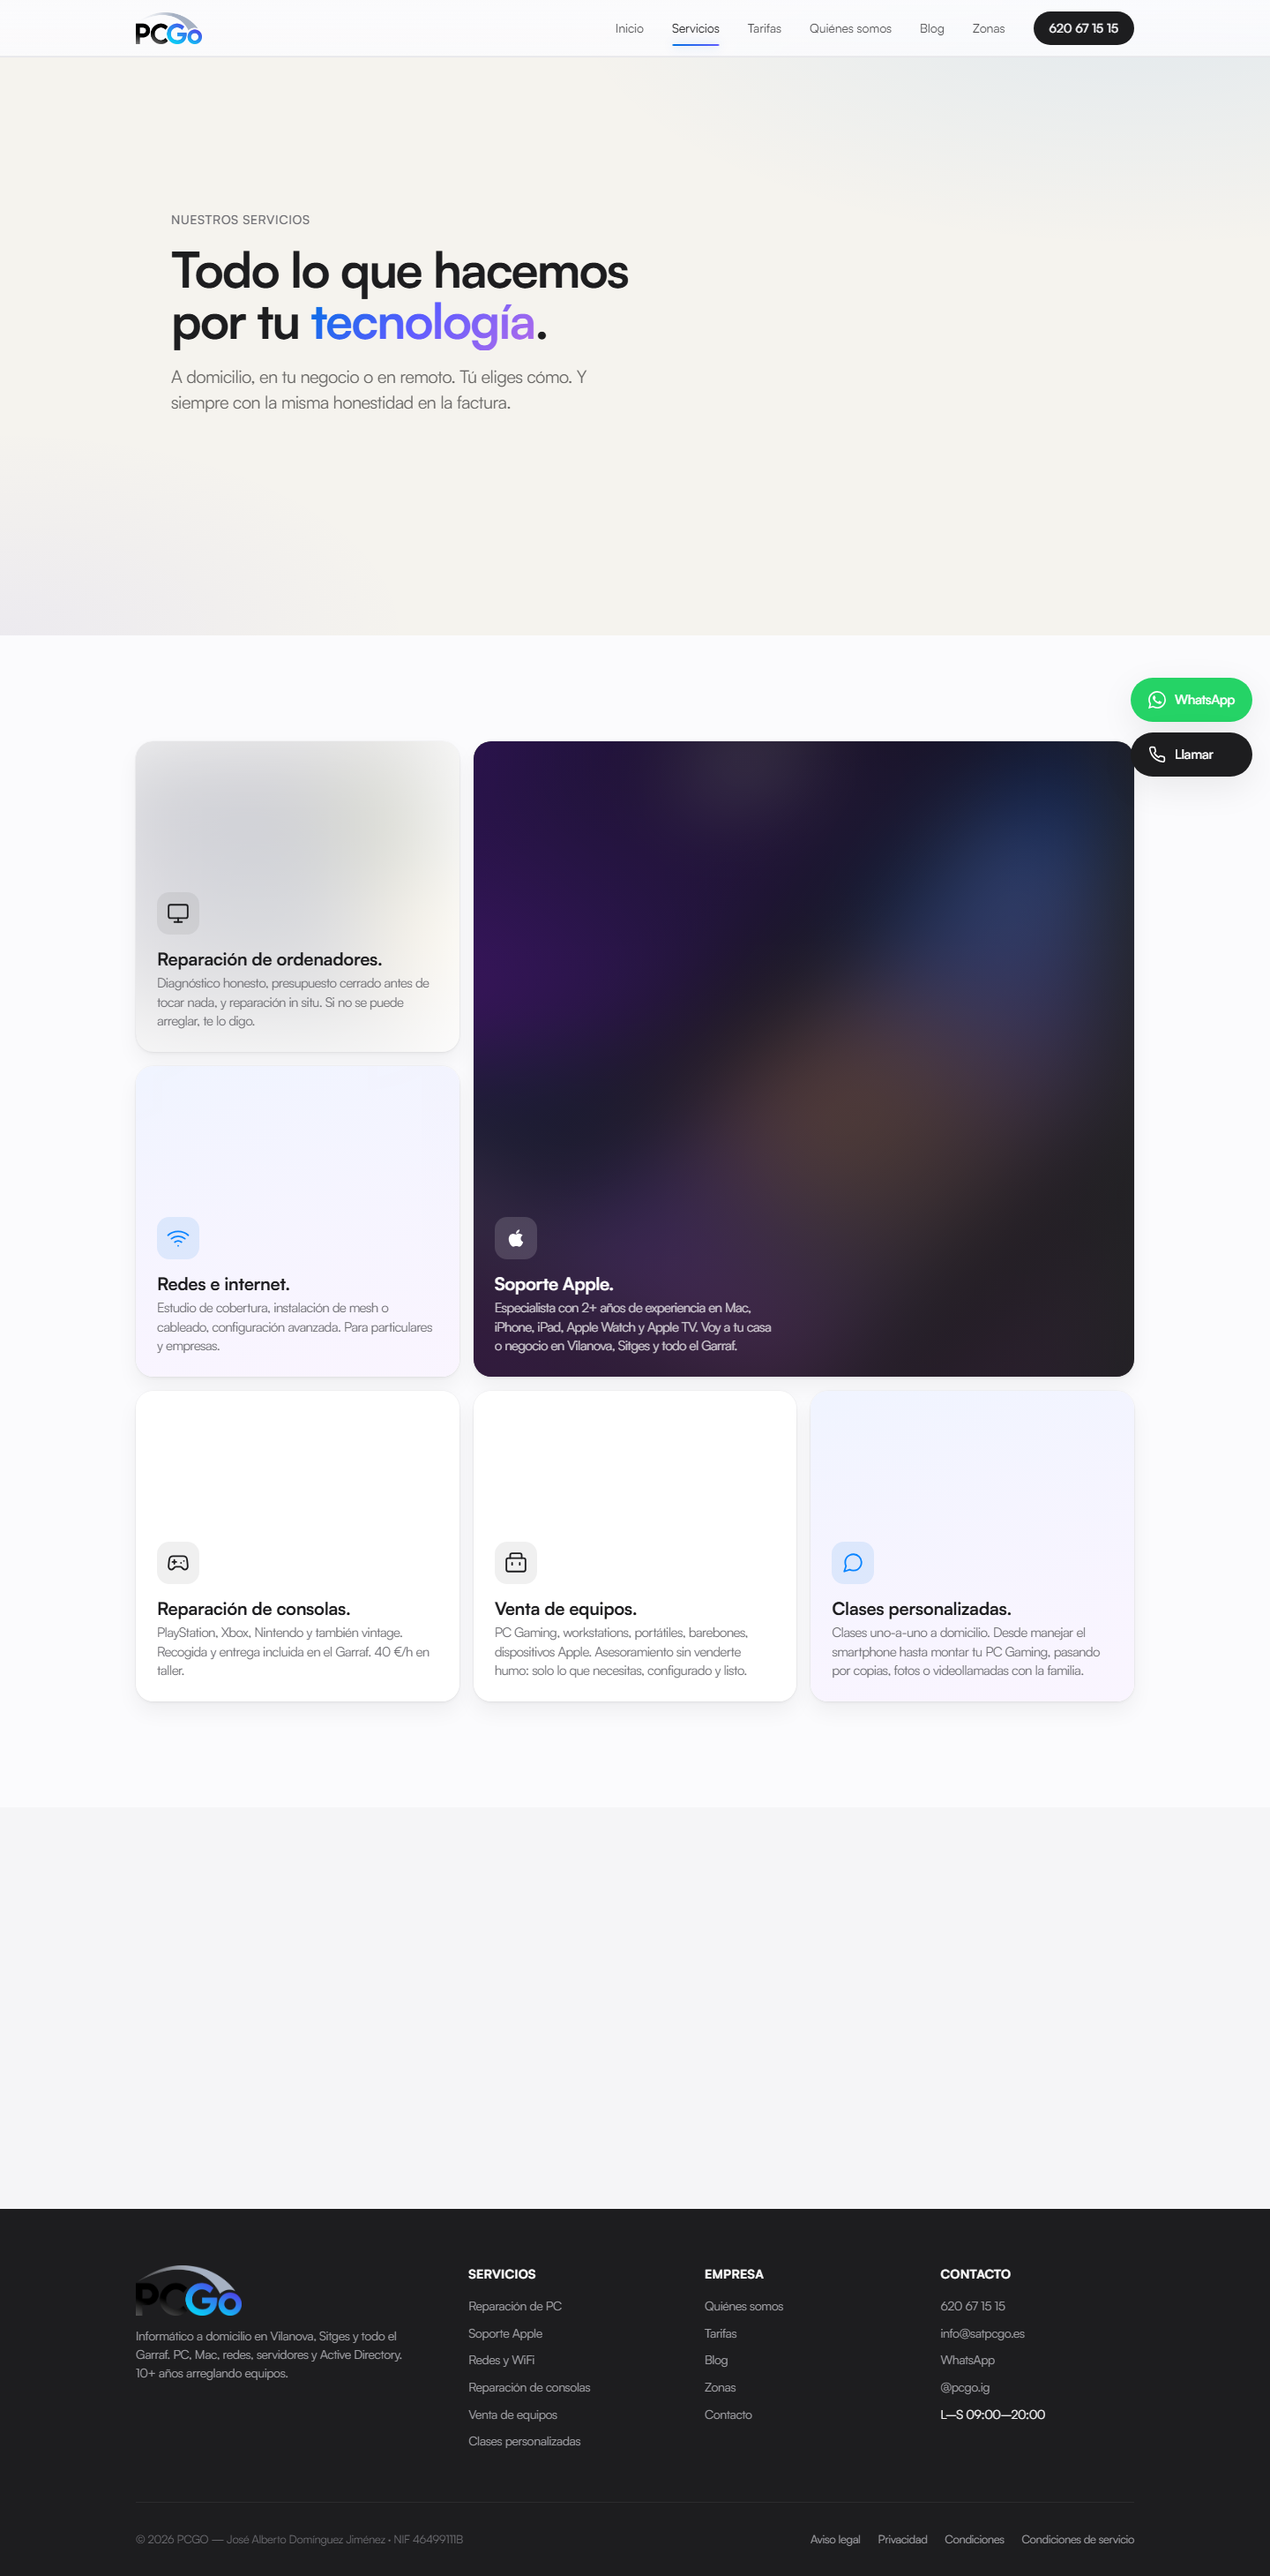
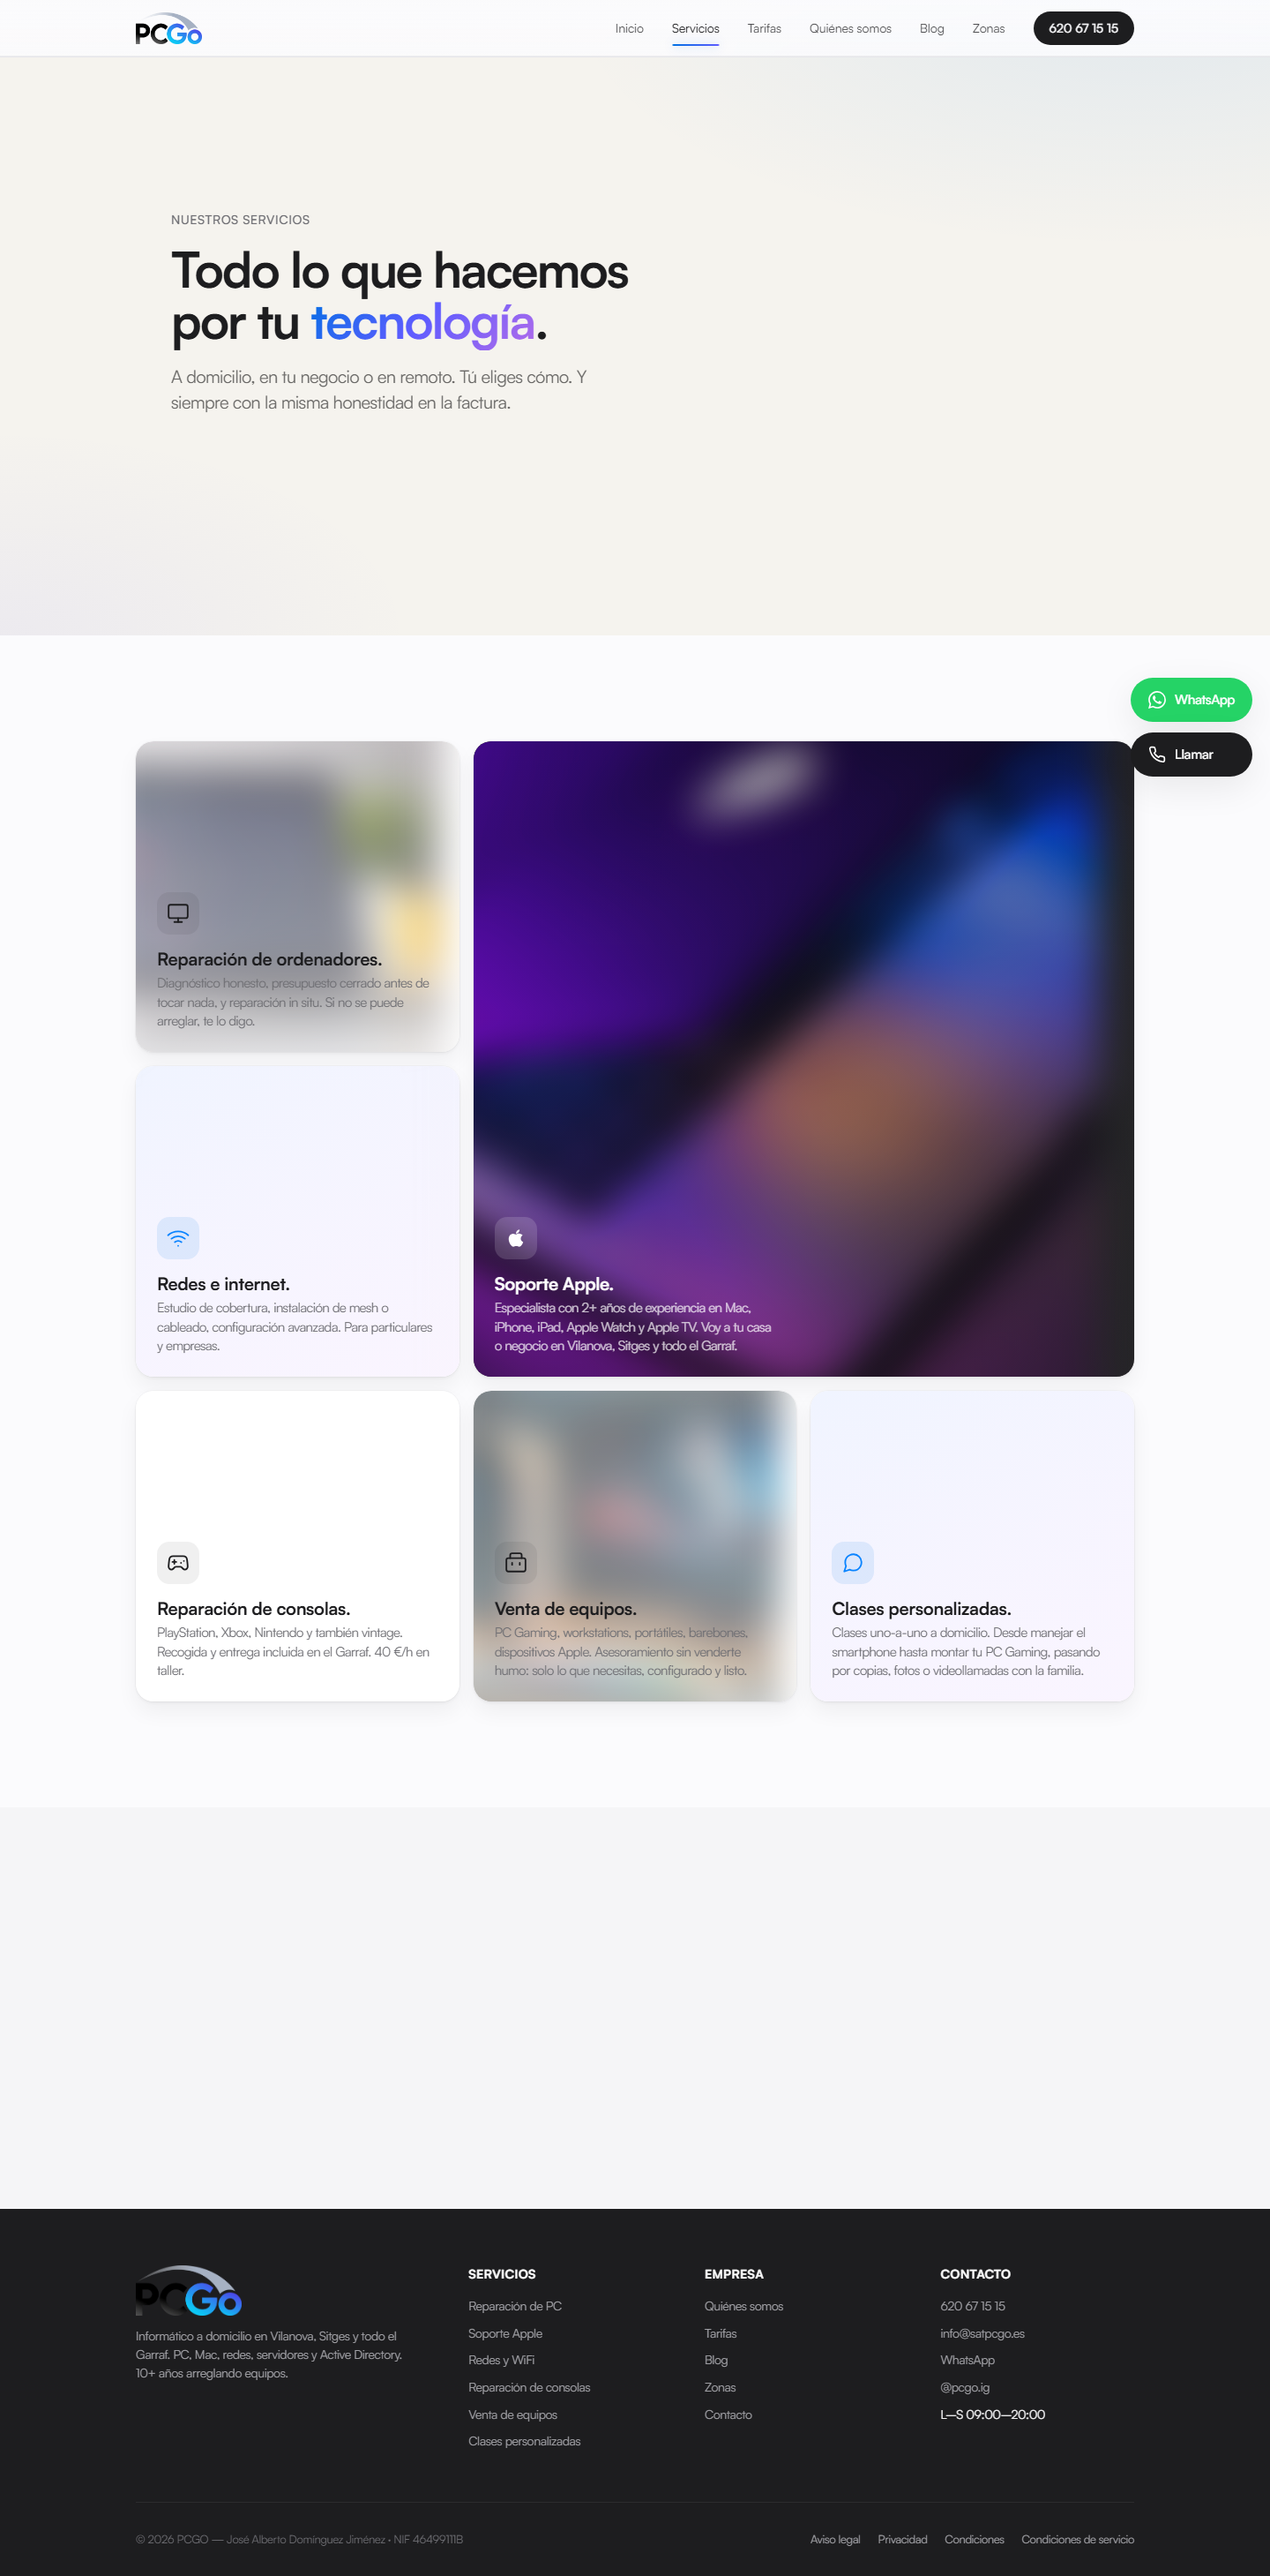
v17.1: less blur + more visible photo
The user pushed back: "sigo sin ver las imágenes." v17 blurred at 50px
with opacity 0.55 + 0.55-0.78 overlay. The photos became pure color
fields — the subject was completely lost.

Adjustments:
- blur 50px → 22px (still clearly soft, but the subject is recognizable)
- opacity 0.55 → 0.85
- scale 1.1 → 1.05 (less aggressive zoom since the photo is more visible)
- overlay opacity reduced across all themes:
  * default: 0.55/0.78 → 0.25/0.5
  * dark:    0.35/0.65 → 0.2/0.45
  * blue:    0.35/0.65 → 0.2/0.45
  * tinted:  0.45/0.78 → 0.2/0.5
- hover scale 1.18 → 1.12 (smaller Ken-Burns, proportional to the new scale)

Result: the Soporte Apple card now shows the actual MacBook photo
through a subtle dark overlay. Reparación hints at a MacBook. Redes
hints at a router. Venta hints at a gaming setup. The text remains
perfectly readable on top of the photo.

Not pushed to origin. Awaiting user authorization.

Changed region(s): [[0.0938, 0.2806, 0.875, 0.6859]]

diff --git a/public/global.css b/public/global.css
@@ -896,11 +896,11 @@ h1, h2, h3, h4, h5 {
 }
 
 /* ---------- Heavily-blurred photo background ----------
-   The image is scaled past the card edge and blurred hard (50px) so it
-   reads as a soft color field. A white/dark overlay on top keeps the
-   text readable regardless of the photo's luminosity. The overlay opacity
-   per-theme ensures the card still has its characteristic color identity
-   even with the photo on top. */
+   The image is scaled past the card edge and blurred (22px) so it reads
+   as a recognizable-but-soft photo — you can still tell what the
+   subject is (a Mac, a router, a console) without the photo competing
+   with the text. A subtle white/dark overlay on top keeps the text
+   readable while letting the photo show through. */
 .bento-card__bg {
   position: absolute;
   inset: 0;
@@ -911,31 +911,31 @@ h1, h2, h3, h4, h5 {
 }
 .bento-card__bg img {
   position: absolute;
-  inset: -10%;
-  width: 120%;
-  height: 120%;
+  inset: -8%;
+  width: 116%;
+  height: 116%;
   object-fit: cover;
-  filter: blur(50px) saturate(1.15);
-  transform: scale(1.1);
-  opacity: 0.55;
+  filter: blur(22px) saturate(1.25);
+  transform: scale(1.05);
+  opacity: 0.85;
   transition: transform 600ms cubic-bezier(0.22, 0.61, 0.36, 1);
 }
 .bento-card__bg-overlay {
   position: absolute;
   inset: 0;
-  background: linear-gradient(180deg, rgba(255, 255, 255, 0.55) 0%, rgba(255, 255, 255, 0.78) 100%);
+  background: linear-gradient(180deg, rgba(255, 255, 255, 0.25) 0%, rgba(255, 255, 255, 0.5) 100%);
   transition: background 400ms var(--ease);
 }
 .bento-card--dark .bento-card__bg-overlay {
-  background: linear-gradient(180deg, rgba(29, 29, 31, 0.35) 0%, rgba(29, 29, 31, 0.65) 100%);
+  background: linear-gradient(180deg, rgba(29, 29, 31, 0.2) 0%, rgba(29, 29, 31, 0.45) 100%);
 }
 .bento-card--blue .bento-card__bg-overlay {
-  background: linear-gradient(180deg, rgba(0, 113, 227, 0.35) 0%, rgba(94, 92, 255, 0.65) 100%);
+  background: linear-gradient(180deg, rgba(0, 113, 227, 0.2) 0%, rgba(94, 92, 255, 0.45) 100%);
 }
 .bento-card--tinted .bento-card__bg-overlay {
-  background: linear-gradient(180deg, rgba(240, 244, 255, 0.45) 0%, rgba(250, 245, 255, 0.78) 100%);
+  background: linear-gradient(180deg, rgba(240, 244, 255, 0.2) 0%, rgba(250, 245, 255, 0.5) 100%);
 }
-.bento-card:hover .bento-card__bg img { transform: scale(1.18); }
+.bento-card:hover .bento-card__bg img { transform: scale(1.12); }
 
 .bento-card__content {
   position: relative;

diff --git a/src/styles/global.css b/src/styles/global.css
@@ -896,11 +896,11 @@ h1, h2, h3, h4, h5 {
 }
 
 /* ---------- Heavily-blurred photo background ----------
-   The image is scaled past the card edge and blurred hard (50px) so it
-   reads as a soft color field. A white/dark overlay on top keeps the
-   text readable regardless of the photo's luminosity. The overlay opacity
-   per-theme ensures the card still has its characteristic color identity
-   even with the photo on top. */
+   The image is scaled past the card edge and blurred (22px) so it reads
+   as a recognizable-but-soft photo — you can still tell what the
+   subject is (a Mac, a router, a console) without the photo competing
+   with the text. A subtle white/dark overlay on top keeps the text
+   readable while letting the photo show through. */
 .bento-card__bg {
   position: absolute;
   inset: 0;
@@ -911,31 +911,31 @@ h1, h2, h3, h4, h5 {
 }
 .bento-card__bg img {
   position: absolute;
-  inset: -10%;
-  width: 120%;
-  height: 120%;
+  inset: -8%;
+  width: 116%;
+  height: 116%;
   object-fit: cover;
-  filter: blur(50px) saturate(1.15);
-  transform: scale(1.1);
-  opacity: 0.55;
+  filter: blur(22px) saturate(1.25);
+  transform: scale(1.05);
+  opacity: 0.85;
   transition: transform 600ms cubic-bezier(0.22, 0.61, 0.36, 1);
 }
 .bento-card__bg-overlay {
   position: absolute;
   inset: 0;
-  background: linear-gradient(180deg, rgba(255, 255, 255, 0.55) 0%, rgba(255, 255, 255, 0.78) 100%);
+  background: linear-gradient(180deg, rgba(255, 255, 255, 0.25) 0%, rgba(255, 255, 255, 0.5) 100%);
   transition: background 400ms var(--ease);
 }
 .bento-card--dark .bento-card__bg-overlay {
-  background: linear-gradient(180deg, rgba(29, 29, 31, 0.35) 0%, rgba(29, 29, 31, 0.65) 100%);
+  background: linear-gradient(180deg, rgba(29, 29, 31, 0.2) 0%, rgba(29, 29, 31, 0.45) 100%);
 }
 .bento-card--blue .bento-card__bg-overlay {
-  background: linear-gradient(180deg, rgba(0, 113, 227, 0.35) 0%, rgba(94, 92, 255, 0.65) 100%);
+  background: linear-gradient(180deg, rgba(0, 113, 227, 0.2) 0%, rgba(94, 92, 255, 0.45) 100%);
 }
 .bento-card--tinted .bento-card__bg-overlay {
-  background: linear-gradient(180deg, rgba(240, 244, 255, 0.45) 0%, rgba(250, 245, 255, 0.78) 100%);
+  background: linear-gradient(180deg, rgba(240, 244, 255, 0.2) 0%, rgba(250, 245, 255, 0.5) 100%);
 }
-.bento-card:hover .bento-card__bg img { transform: scale(1.18); }
+.bento-card:hover .bento-card__bg img { transform: scale(1.12); }
 
 .bento-card__content {
   position: relative;
